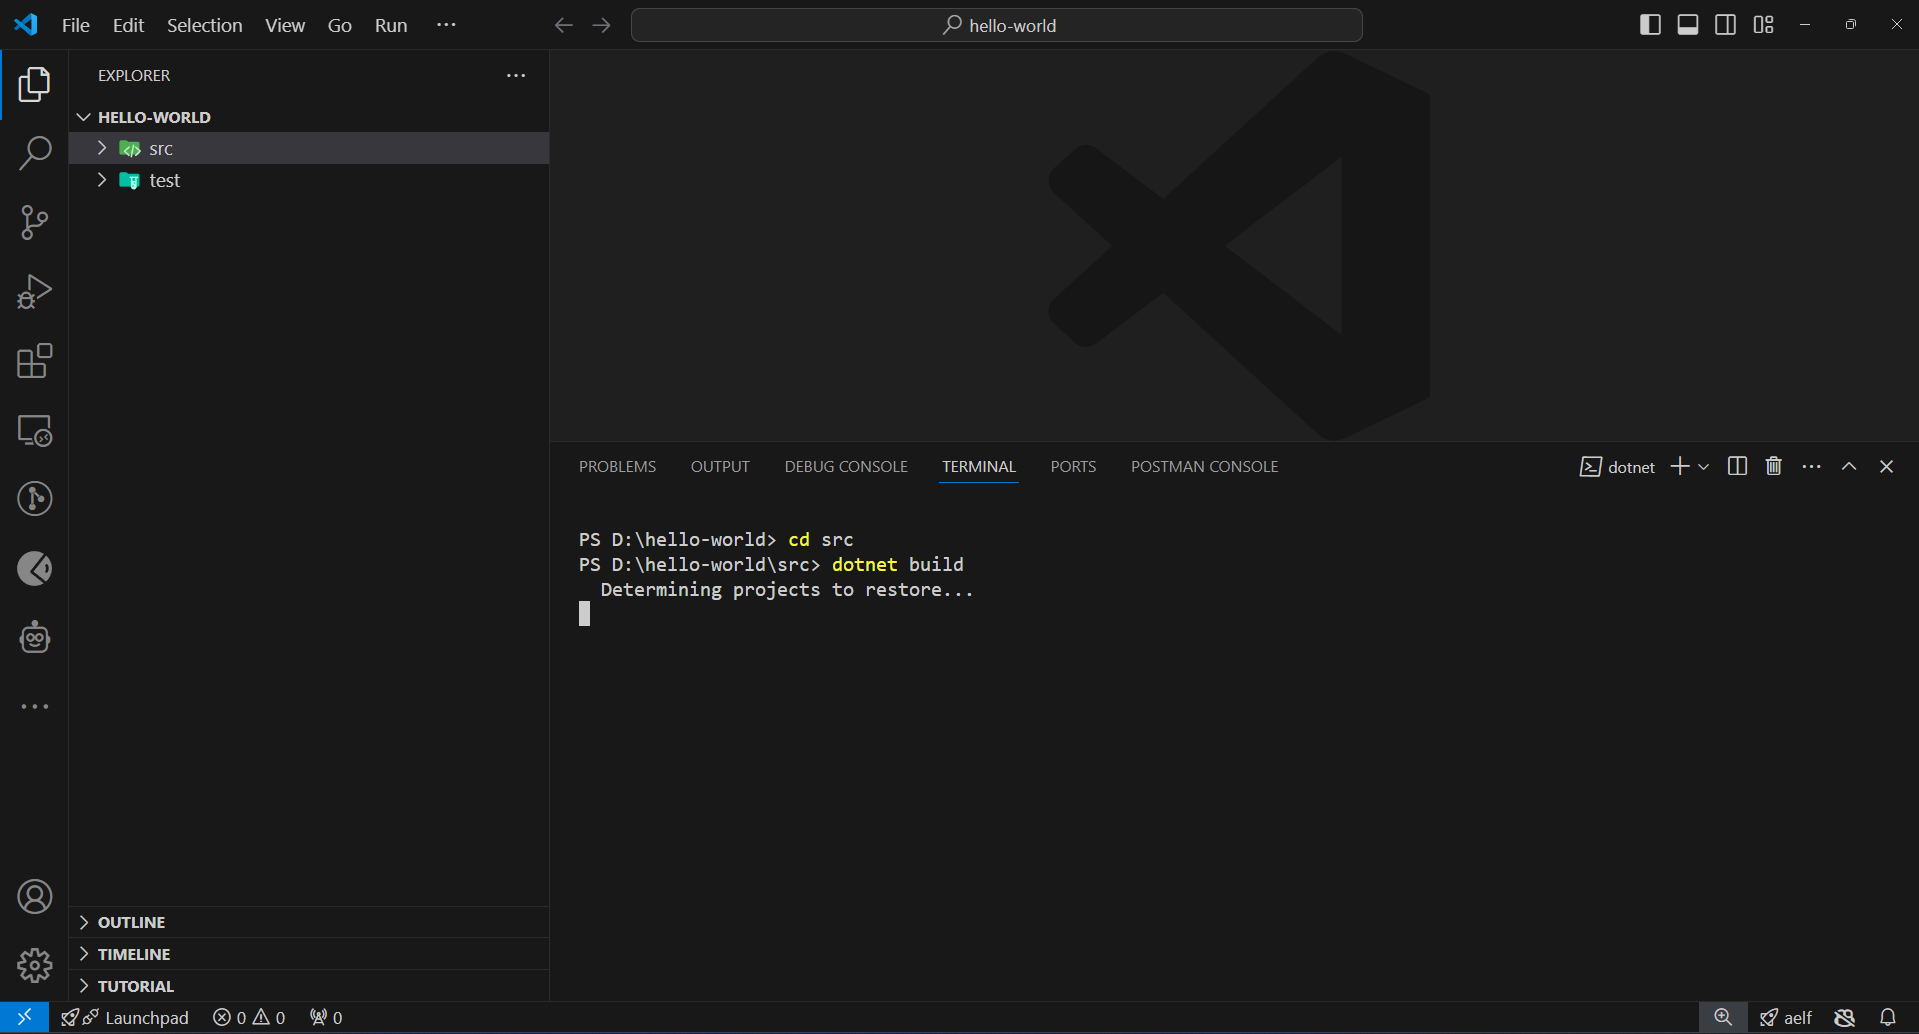
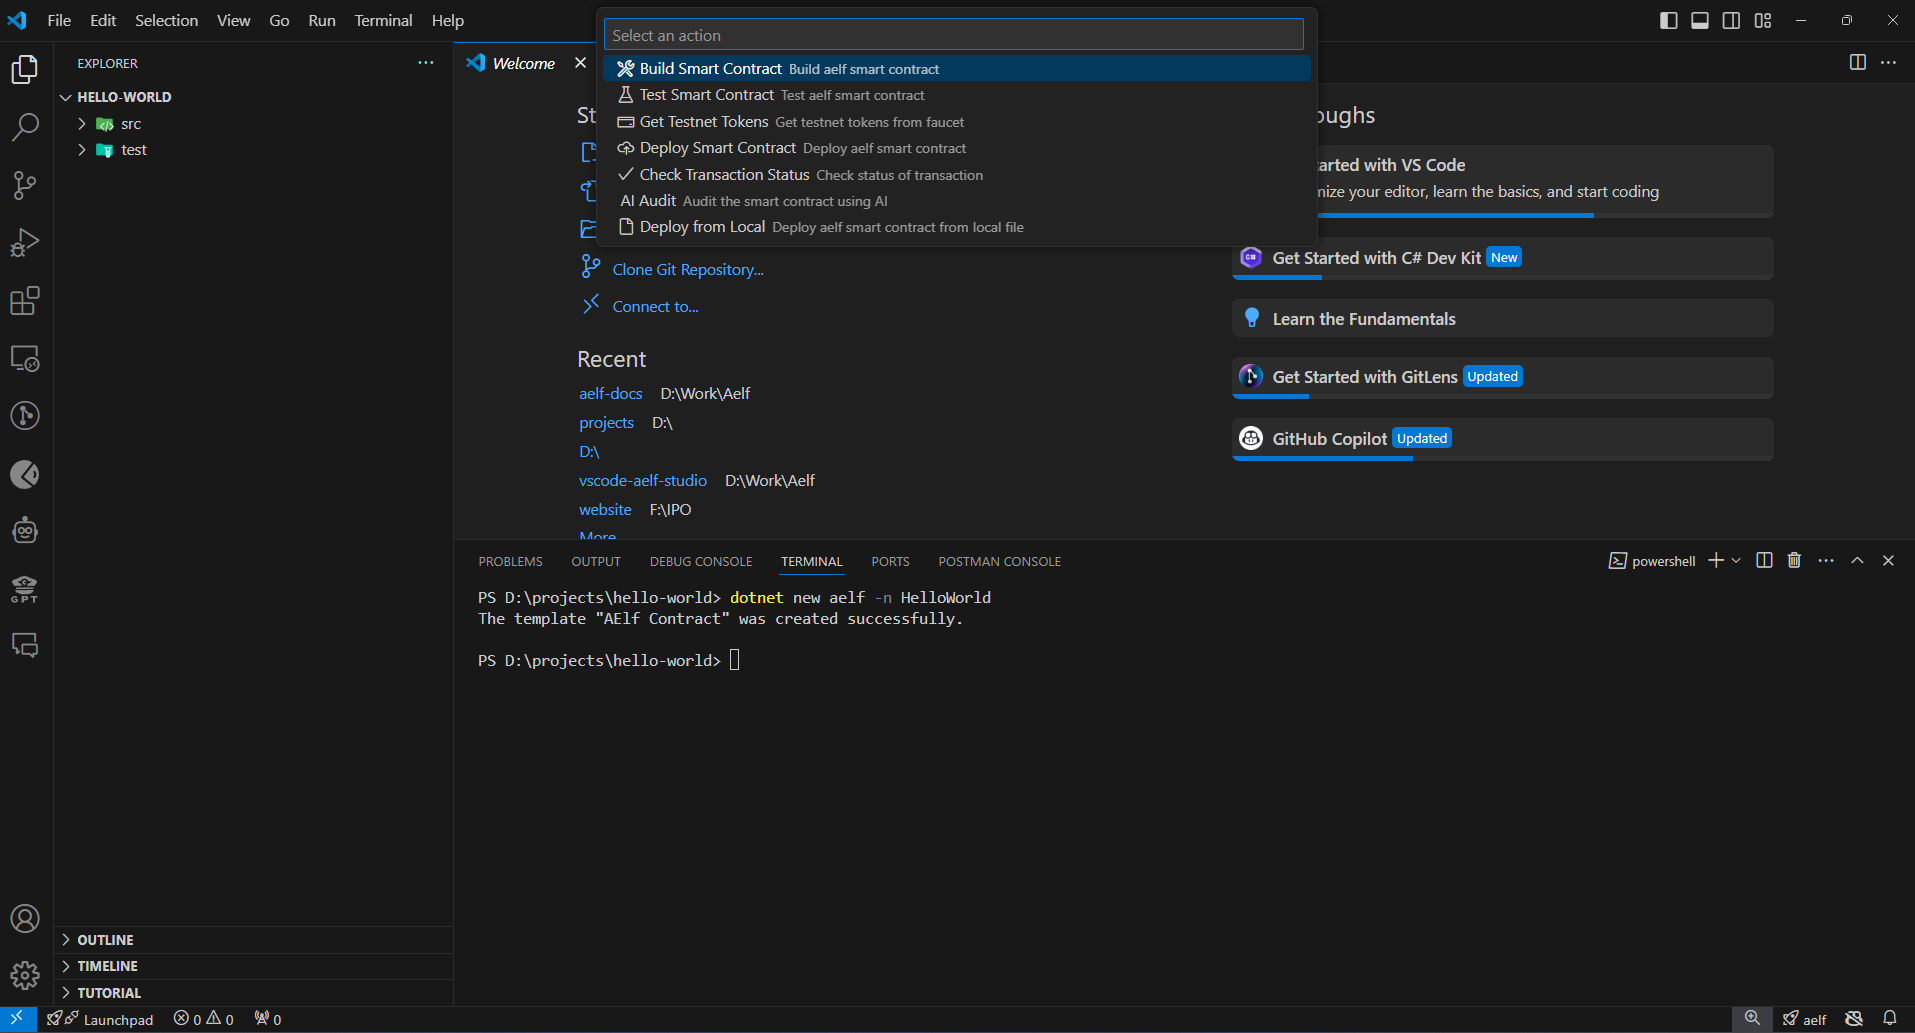
fix: updated images and steps integration according PR review

diff --git a/docs/tools/aelf-studio-extention/index.md b/docs/tools/aelf-studio-extention/index.md
@@ -73,20 +73,30 @@ description: A tool to simplify building, testing, and deploying smart contracts
 
     ![cd-aelf-studio](/img/cd-aelf-studio.png)
 
-  - Then type `code .` to open that folder in VS Code.
-
-    ![code-aelf-studio](/img/code-aelf-studio.png)
-
 - **Create a new smart contract:**
   - In the terminal, type `dotnet new aelf -n HelloWorld` and press enter. This will create a `HelloWorld` smart contract template project.
 
     ![create-hello-world-aelf-studio](/img/create-hello-world-aelf-studio.png)
 
-- **Build the contract:**
+### Build the contract:
+
   - Go to the "src" folder by typing `cd src`.
-  - Then type `dotnet build` to build (compile) the smart contract.
+  - Click the **aelf icon** in the bottom right corner.
+  - Select **Build Smart Contract** from the menu to build (compile) the smart contract
 
     ![create-build-aelf-studio](/img/create-build-aelf-studio.png)
+  
+  - Notification will appear with preferance question. Click on **"No"** option.
+
+    ![create-build-ask-notification-aelf-studio](/img/create-build-ask-notification-aelf-studio.png)
+
+  - You will again get one more select menu option. Please select respective file for Build the project.
+
+    ![select-file-create-build-aelf-studio](/img/select-file-create-build-aelf-studio.png)
+
+  - You will see the success message below after the build is created successfully.
+
+    ![build-success-aelf-studio](/img/build-success-aelf-studio.png)
 
 ### Test Smart Contract:
 
